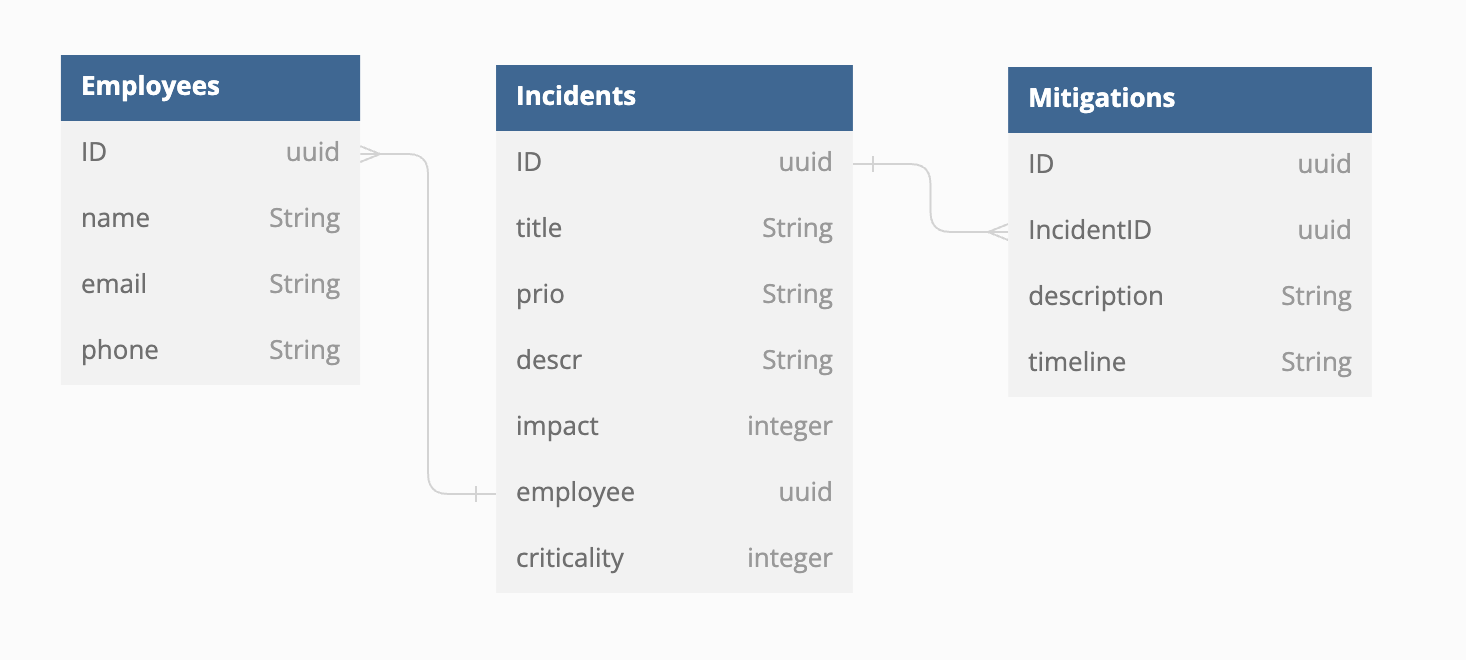
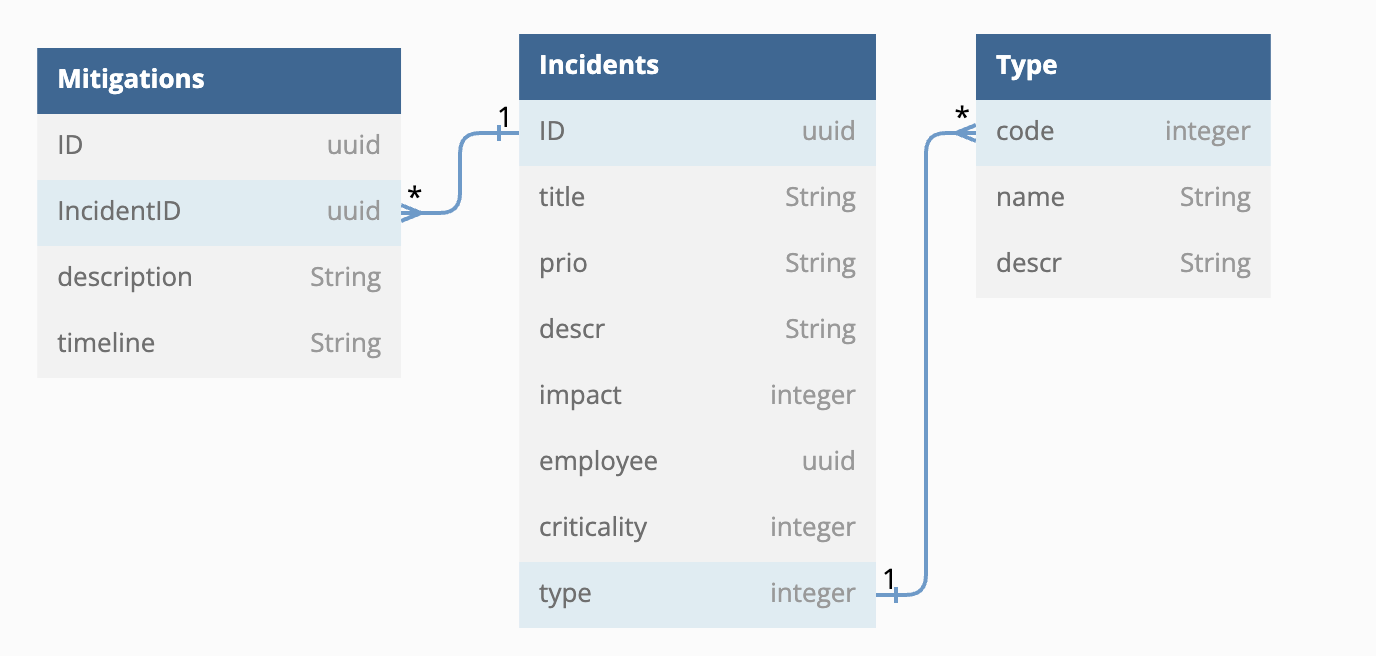
first tweaks to documentation

diff --git a/CAP/CreateApplication.md b/CAP/CreateApplication.md
@@ -5,23 +5,31 @@ You will learn
 - How to use the CAP’s tooling cds watch to launch your project
 - How to add files to your project
 
-The full code base of the CAP app can be found [here](./caprisks/) should you need to check or copy the code
+The full code base of the CAP app can be found [here](./caprisks/) should you need to check or copy the code. 
+
+In addition, the CAP documentation is actually pretty solid! It has its own [website here](https://cap.cloud.sap/docs/get-started/)
 
 
 ## Step 1 - Create and initialize the project
-1. Open a command line window.
+If you're working BAS, make sure you have created a Dev Space based on the Full Stack Cloud Application option, otherwise you might be missing some tooling required for CAP.
 
-2. Create a new directory for your application 
+### 1. Open a command line window. In BAS it's here in the hamburger menu:
+
+<img src="../images/Terminal.png" width="700">
+
+For VSCode, the same Terminal menu is just at the top. 
+
+### 2. Create a new directory for your application.
 ```bash
 mkdir caprisks
 ```
 
-3. Switch to your project root folder.
+### 3. Switch to your project root folder. Now you'll definitly need the terminal:
 ```bash
 cd caprisks
 ```
 
-4. Create an initial CAP project by executing the command ```cds init```.
+### 4. Create an initial CAP project by executing using the CAP command line tool.
 ```bash
 cds init
 ```
@@ -29,24 +37,24 @@ cds init
 <img src="../images/CDSInit.png" width="500">
 
 
-5. Open the project in VS Code.
+### For VSCode users
+If you're using VSCode, you can open a new IDE with your new project as the root folder like so:
 ```bash
 code .
 ```
 
 <img src="../images/InitialProject.png" width="300">
 
-6. In VS Code choose Terminal → New Terminal from its menu.
-A new terminal opens in the lower right part of the VS Code screen.
+Also in VS Code choose Terminal → New Terminal from its menu. A new terminal opens in the lower right part of the VS Code screen.
 
-7. In the VS Code terminal, run the following command.
-This installs all the dependencies for the project.  You can find these listed in the ```package.json``` file
+### 5. Terminal, run the following command.
+This installs all the dependencies for the project.  You can find these listed in the ```package.json``` file. Dependencies are installed in a folder called `node_modules`. 
 ```bash
 npm install
 ```
 <img src="../images/npmInstall.png" width="500">
 
-8. In the VS Code terminal, start a CAP server.
+### 6. In the VS Code terminal, start a CAP server.
 ```bash
 cds watch
 ```
@@ -63,14 +71,27 @@ The CAP server tells you that there is no model and no service definitions yet t
 1. Create the database tables
 Create a new file in the ``db`` folder called ``schema.cds``
 
-Copy the code here and paste it into the file.   
+The schema we will be working with looks as follows:
+
+<img src="../images/DataModel.png" width="700">
+
+In CAP, there are two ways of modelling relations between entities: [`Compositions` and `Associations`](https://cap.cloud.sap/docs/guides/domain-modeling#associations).
+
+A **Composition** is used when you want to imply ownership of one entity to another. In our data model above, we can say that all Mitigations belong to an Incident, in the same way for instance that
+a sales order line item can not exist outside of the sales order header. 
+
+An **Association** is for a "has a" type relationship. In this case, our incidents have an incident type, but incident types exist perfectly happy all by themselves so we say that the Incident has a Type. 
+This in contrast to: A type belongs to an Incident and cannot live without it. 
+
+Knowing this, we can model the following, and we're adding that we created. You can copy and paste it into the file, or you can of course have a go yourself first.
 
 ```js
 namespace sap.ui.riskmanagement;
 
 using {
   managed,
-  cuid
+  cuid,
+  sap.common.CodeList
 } from '@sap/cds/common';
 
 entity Incidents : cuid, managed {
@@ -81,7 +102,7 @@ entity Incidents : cuid, managed {
                   on mitigations.incident = $self;
   impact      : Integer;
   criticality : Integer;
-  employee    : Association to Employees;
+  type: Association to Type;
 }
 
 entity Mitigations : cuid, managed {
@@ -90,22 +111,12 @@ entity Mitigations : cuid, managed {
   incident    : Association to one Incidents;
 }
 
-entity Employees {
-  key ID        : String  @title: 'ID'            @Common: {
-        SemanticObject : 'employee',
-        Text           : name,
-        TextArrangement: #TextOnly
-      };
-      name      : String  @title: 'Name';
-      email     : String  @title: 'e-mail'        @Communication.IsEmailAddress;
-      phone     : String  @title: 'Phone Number'  @Communication.IsPhoneNumber;
-      incidents : Association to many Incidents
-                    on incidents.employee = $self;
-};
+entity Type : CodeList {
+  key code: Integer;
+}
 ```
-It creates three entities in the namespace ``sap.ui.riskmanagement``: ``Incidents``, ``Employees``  and ``Mitigations``. 
+It creates three entities in the namespace ``sap.ui.riskmanagement``: ``Incidents``, ``Type``  and ``Mitigations``. 
 
-<img src="../images/DataModel.png" width="700">
 
 Each of them has a key called ```ID``` and several other properties. An ``Incident`` has one ``Mitigations`` and, therefore, the property ``IncidentID`` has an association to exactly one ``Incident``. A ``Mitigation`` in turn can be used for one ``Incident``, so it has a “to one” association. The key is automatically filled by the CAP server, which is exposed to the user of the service via the aspect [``cuid``](https://cap.cloud.sap/docs/cds/common#aspect-cuid).
 
@@ -122,7 +133,7 @@ Next, you add a service definition.
 
 1. Create the OData V4 Service
 
-Create a file called ``risk-service.cds`` in the ``srv``
+Create a file called ``risk-service.cds`` in the ``srv`` folder.
 
 Copy the code here and paste it into the file. 
 ```js
@@ -133,10 +144,9 @@ service IncidentsService {
   @odata.draft.enabled
   entity Incidents as projection on my.Incidents;
   entity Mitigations as projection on my.Mitigations;
-  entity Employees as projection on my.Employees;
 }
 ```
-It creates a new service ``IncidentsService`` in the namespace ``sap.ui.riskmanagement``. This service exposes three entities: Risks, Mitigations & Employees, which are exposing the entities of the database schema you’ve created in the step before.
+It creates a new service ``IncidentsService`` in the namespace ``sap.ui.riskmanagement``. This service exposes three entities: `Risks` and `Mitigations`, which are exposing the entities of the database schema you’ve created in the step before. You'll notice we did not need to add the `Type` entity. This is because we used the `Codelist`, which adds an annotation to auto-expose the entity if it's used.
 
 If you again look at the terminal, you see that the CAP server has noticed the new file and now tells us that it serves something under [http://localhost:4004](http://localhost:4004).
 
@@ -162,8 +172,8 @@ So, there’s no data yet. This is because so far, your model doesn’t contain 
 You have now added three comma-separated value (CSV) files that contain local data for ``Incidents``, ``Mitigations`` and the ``Employees``  entities. A quick look into the ``sap.ui.riskmanagement-Incidents.csv`` (the name consists of your namespace and the name of your database entity from the schema.cds file) file shows data like this:
 
 ```csv
-ID;createdAt;createdBy;title;prio;descr;impact;employee_ID
-20466922-7d57-4e76-b14c-e53fd97dcb11;2023-10-24;max.mustermann@muster.com;Security Breach;3;Unauthorized access to customer data;10000;david
+ID;createdAt;createdBy;title;prio;descr;impact;type_code
+20466922-7d57-4e76-b14c-e53fd97dcb11;2023-10-24;max.mustermann@muster.com;Security Breach;3;Unauthorized access to customer data;10000;1
 ...
 ```
 
